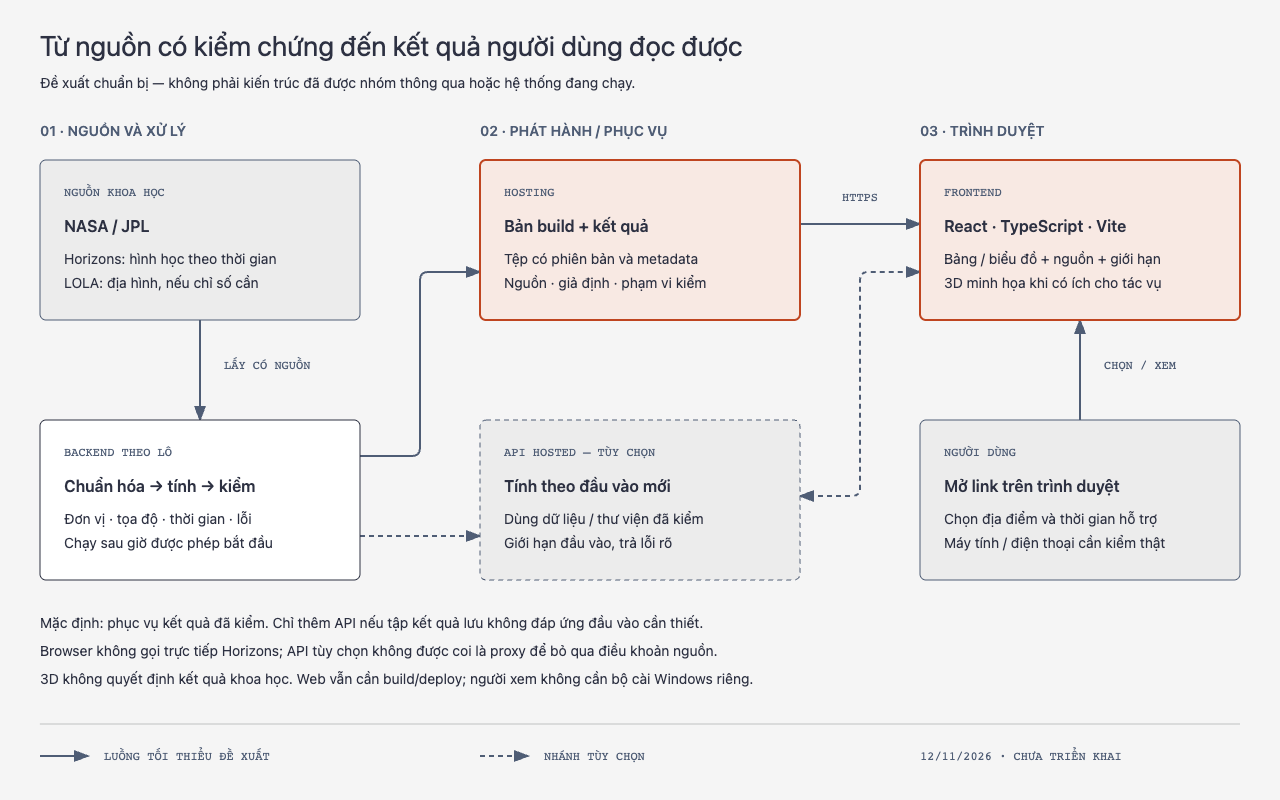
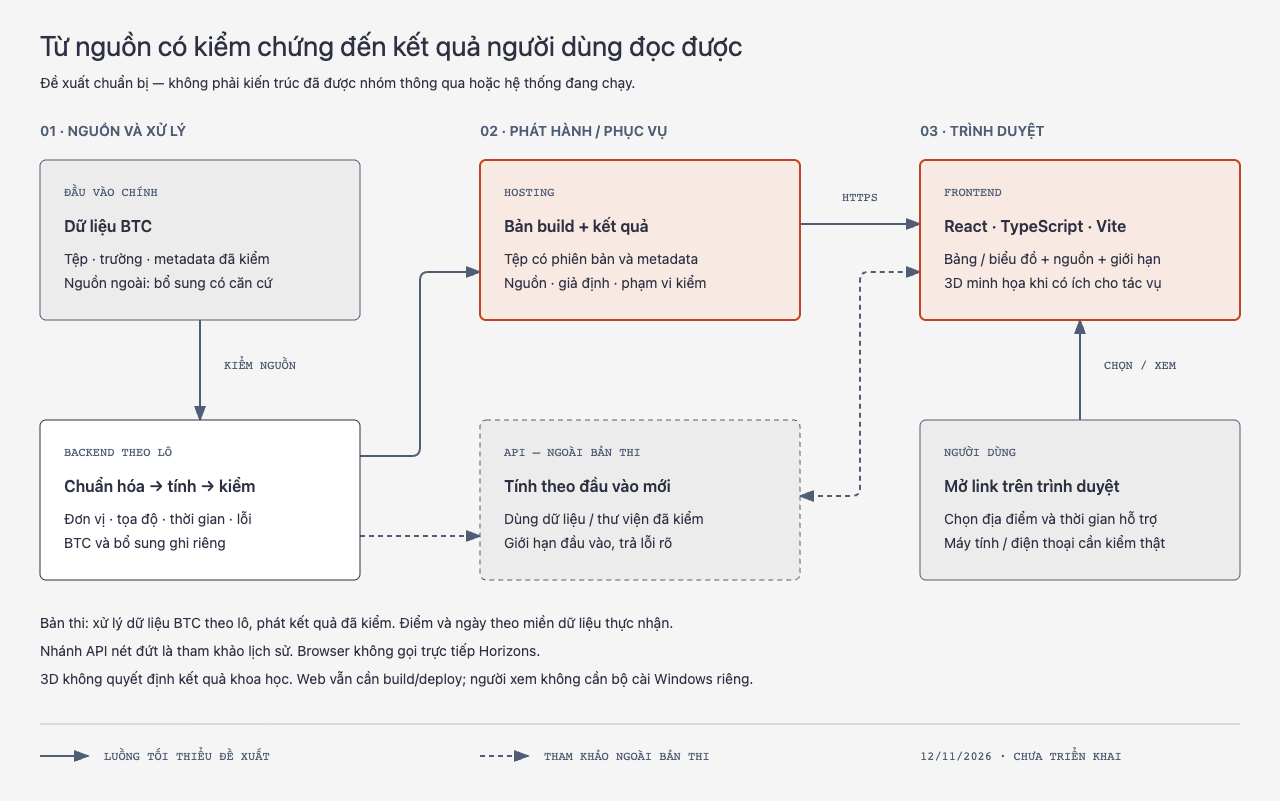
Make organizer data primary and select scenarios after inspection

diff --git a/docs/architecture-proposal/architecture.html b/docs/architecture-proposal/architecture.html
@@ -26,11 +26,11 @@
 <body>
 <main>
   <h1>Kiến trúc web app để nhóm trao đổi</h1>
-  <p><strong>Bản đề xuất · 12/11/2026 · Chưa triển khai.</strong> Giả định bản đầu chỉ hỗ trợ một số địa điểm và khoảng thời gian có kết quả đã kiểm. Nhóm chưa chốt chỉ số, miền dữ liệu hoặc nhánh API.</p>
+  <p><strong>Bản đề xuất · 12/11/2026 · Chưa triển khai.</strong> Dữ liệu BTC là chính; nguồn ngoài bổ sung có căn cứ. Điểm, ngày và cấu hình lấy từ bản kê đã kiểm sau khi nhận dữ liệu. Nhánh API là tham khảo lịch sử, ngoài bản thi hiện tại.</p>
   <div class="diagram-container" tabindex="0" role="region" aria-label="Sơ đồ kiến trúc, có thể cuộn ngang trên màn hình nhỏ">
     <svg viewBox="0 0 1280 800" xmlns="http://www.w3.org/2000/svg" role="img" aria-labelledby="architecture-title architecture-desc">
       <title id="architecture-title">Kiến trúc web app đề xuất</title>
-      <desc id="architecture-desc">Nguồn khoa học được xử lý và kiểm theo lô rồi phát hành lên hosting cho frontend trình duyệt; API theo yêu cầu là nhánh tùy chọn.</desc>
+      <desc id="architecture-desc">Dữ liệu BTC là đầu vào chính, nguồn ngoài bổ sung khi cần; xử lý và kiểm theo lô rồi phát hành lên hosting cho frontend. Điểm và ngày theo bản kê đã kiểm; nhánh API nằm ngoài bản thi hiện tại.</desc>
       <defs>
         <marker id="arch-arrow" markerWidth="8" markerHeight="6" refX="7" refY="3" orient="auto"><polygon points="0 0,8 3,0 6" fill="#4f5d75"/></marker>
         <marker id="arch-start" markerWidth="8" markerHeight="6" refX="1" refY="3" orient="auto"><polygon points="8 0,0 3,8 6" fill="#4f5d75"/></marker>
@@ -51,23 +51,23 @@
       <path d="M800 496 H852 Q860 496 860 488 V280 Q860 272 868 272 H920" class="arrow optional" marker-start="url(#arch-start)"/>
 
       <rect x="216" y="352" width="120" height="24" fill="#f5f5f5"/>
-      <text x="224" y="369" class="tag">LẤY CÓ NGUỒN</text>
+      <text x="224" y="369" class="tag">KIỂM NGUỒN</text>
       <rect x="804" y="184" width="112" height="24" fill="#f5f5f5"/>
       <text x="860" y="201" text-anchor="middle" class="tag">HTTPS</text>
       <rect x="1096" y="352" width="124" height="24" fill="#f5f5f5"/>
       <text x="1104" y="369" class="tag">CHỌN / XEM</text>
 
       <rect x="40" y="160" width="320" height="160" rx="6" fill="#ececec" stroke="#4f5d75"/>
-      <text x="64" y="196" class="tag">NGUỒN KHOA HỌC</text>
-      <text x="64" y="232" class="name">NASA / JPL</text>
-      <text x="64" y="264" class="detail">Horizons: hình học theo thời gian</text>
-      <text x="64" y="288" class="detail">LOLA: địa hình, nếu chỉ số cần</text>
+      <text x="64" y="196" class="tag">ĐẦU VÀO CHÍNH</text>
+      <text x="64" y="232" class="name">Dữ liệu BTC</text>
+      <text x="64" y="264" class="detail">Tệp · trường · metadata đã kiểm</text>
+      <text x="64" y="288" class="detail">Nguồn ngoài: bổ sung có căn cứ</text>
 
       <rect x="40" y="420" width="320" height="160" rx="6" fill="#ffffff" stroke="#2d3142"/>
       <text x="64" y="456" class="tag">BACKEND THEO LÔ</text>
       <text x="64" y="492" class="name">Chuẩn hóa → tính → kiểm</text>
       <text x="64" y="524" class="detail">Đơn vị · tọa độ · thời gian · lỗi</text>
-      <text x="64" y="548" class="detail">Chạy sau giờ được phép bắt đầu</text>
+      <text x="64" y="548" class="detail">BTC và bổ sung ghi riêng</text>
 
       <rect x="480" y="160" width="320" height="160" rx="6" fill="#f8e9e3" stroke="#bf4520" stroke-width="2"/>
       <text x="504" y="196" class="tag">HOSTING</text>
@@ -76,7 +76,7 @@
       <text x="504" y="288" class="detail">Nguồn · giả định · phạm vi kiểm</text>
 
       <rect x="480" y="420" width="320" height="160" rx="6" fill="#ececec" stroke="#4f5d75" stroke-dasharray="5 4"/>
-      <text x="504" y="456" class="tag">API HOSTED — TÙY CHỌN</text>
+      <text x="504" y="456" class="tag">API — NGOÀI BẢN THI</text>
       <text x="504" y="492" class="name">Tính theo đầu vào mới</text>
       <text x="504" y="524" class="detail">Dùng dữ liệu / thư viện đã kiểm</text>
       <text x="504" y="548" class="detail">Giới hạn đầu vào, trả lỗi rõ</text>
@@ -93,20 +93,20 @@
       <text x="944" y="524" class="detail">Chọn địa điểm và thời gian hỗ trợ</text>
       <text x="944" y="548" class="detail">Máy tính / điện thoại cần kiểm thật</text>
 
-      <text x="40" y="628" class="detail">Mặc định: phục vụ kết quả đã kiểm. Chỉ thêm API nếu tập kết quả lưu không đáp ứng đầu vào cần thiết.</text>
-      <text x="40" y="656" class="detail">Browser không gọi trực tiếp Horizons; API tùy chọn không được coi là proxy để bỏ qua điều khoản nguồn.</text>
+      <text x="40" y="628" class="detail">Bản thi: xử lý dữ liệu BTC theo lô, phát kết quả đã kiểm. Điểm và ngày theo miền dữ liệu thực nhận.</text>
+      <text x="40" y="656" class="detail">Nhánh API nét đứt là tham khảo lịch sử. Browser không gọi trực tiếp Horizons.</text>
       <text x="40" y="684" class="detail">3D không quyết định kết quả khoa học. Web vẫn cần build/deploy; người xem không cần bộ cài Windows riêng.</text>
       <line x1="40" y1="724" x2="1240" y2="724" stroke="#bfc0c0"/>
       <line x1="40" y1="756" x2="88" y2="756" class="arrow"/>
       <text x="104" y="760" class="tag">LUỒNG TỐI THIỂU ĐỀ XUẤT</text>
       <line x1="480" y1="756" x2="528" y2="756" class="arrow optional"/>
-      <text x="544" y="760" class="tag">NHÁNH TÙY CHỌN</text>
+      <text x="544" y="760" class="tag">THAM KHẢO NGOÀI BẢN THI</text>
       <text x="920" y="760" class="tag">12/11/2026 · CHƯA TRIỂN KHAI</text>
     </svg>
   </div>
   <p><strong>Luồng người dùng:</strong> mở link → chọn tình huống hỗ trợ → tải kết quả đúng phiên bản → xem bảng/biểu đồ → mở nguồn và giới hạn. Khi thiếu dữ liệu hoặc lỗi mạng, báo rõ và cho thử lại; không biến dữ liệu thiếu thành 0.</p>
-  <p><a href="ARCHITECTURE_PROPOSAL.md">Đọc thuyết minh, cơ sở lý thuyết và bốn quyết định cần chốt</a>. Tài liệu kèm theo có liên kết nguồn JPL SSD API, Horizons và LOLA PGDA 78. Sơ đồ tự hiển thị mà không tải font hoặc tài nguyên mạng.</p>
-  <p>Giả định trình bày: sơ đồ tĩnh, nền sáng, font hệ thống sẵn có; không phải bộ nhận diện hoặc giao diện sản phẩm. Nội dung là đề xuất của Codex; chưa có thuật toán, dataset hay deployment được kiểm.</p>
+  <p><a href="ARCHITECTURE_PROPOSAL.md">Đọc thuyết minh, cơ sở lý thuyết và kế hoạch Moon Plan B</a>. Tài liệu kèm theo có liên kết nguồn JPL SSD API, Horizons và LOLA PGDA 78. Sơ đồ tự hiển thị mà không tải font hoặc tài nguyên mạng.</p>
+  <p>Giả định trình bày: sơ đồ tĩnh, nền sáng, font hệ thống sẵn có; không phải bộ nhận diện hoặc giao diện sản phẩm. Nội dung là đề xuất chuẩn bị; tin nhắn nhóm/mentor chưa gửi. Chưa có dataset BTC, mô hình hoặc deployment được kiểm.</p>
 </main>
 </body>
 </html>

diff --git a/docs/architecture-proposal/ARCHITECTURE_PROPOSAL.md b/docs/architecture-proposal/ARCHITECTURE_PROPOSAL.md
@@ -1,10 +1,10 @@
 # Kiến trúc web app — bản đề xuất để nhóm trao đổi
 
-**Bản cụ thể mới hơn ngày 12/11:** [Moon Plan B](../../KE_HOACH_NHOM.md) mục 2–6 ấn định hướng đề xuất: hai điểm, lịch gốc/hoãn/ngày tiếp theo, Python theo lô → JSON có phiên bản → React/Vite trên hosting tĩnh. Nhánh API nét đứt trong sơ đồ dưới không thuộc bản giao này. Mô hình/thuật toán đã được mô tả trong kế hoạch để nhóm duyệt; chưa được triển khai/kiểm định. Nội dung dưới giữ vai trò sơ đồ nền và lịch sử thảo luận.
+**Bản sửa theo dữ liệu ngày 12/11:** [Moon Plan B](../../KE_HOACH_NHOM.md) mục 2–6 dùng bộ BTC làm nguồn chính, nguồn ngoài bổ sung có căn cứ; Python theo lô → JSON có phiên bản → React/Vite tĩnh. Địa điểm/ngày/cấu hình được chọn theo metadata và miền phủ thực nhận, không khóa trước. Mục tiêu là so lịch gốc/hoãn/ngày tiếp theo; nhánh API nét đứt không thuộc bản giao hiện tại. Mô hình tham chiếu có điều kiện dữ liệu, chưa được triển khai/kiểm định. Các đoạn thảo luận cũ dưới đây giữ vai trò lịch sử, kế hoạch mới là hướng thực hiện.
 
 Ngày 12/11/2026, giờ Hà Nội. **Đề xuất chuẩn bị, chưa được cả nhóm chốt và chưa triển khai.**
 
-**Phạm vi trả lời mentor:** đã có đề xuất nền tảng, sơ đồ thành phần, tương tác và luồng dữ liệu. Mục 4 dẫn bản giải thích lý thuyết, ví dụ giả định và kế hoạch kiểm chứng có nguồn. Đây là đề xuất để trao đổi; mô hình toán, thuật toán và kết quả kiểm định chưa có.
+**Phạm vi trao đổi mentor:** đã có sơ đồ thành phần, tương tác, luồng dữ liệu và mục 4 giải thích lý thuyết. Các tin nhắn dự thảo trong chat chia sẻ chưa gửi theo xác nhận của Sơn; không ghi nhận mentor/nhóm đã duyệt. Kế hoạch hiện tại mô tả mô hình tham chiếu có điều kiện, chưa có kết quả kiểm định.
 
 ![Sơ đồ kiến trúc đề xuất](architecture-preview.png)
 
@@ -18,26 +18,27 @@ Tách hai việc: **backend xử lý khoa học theo lô** tạo kết quả có
 
 ## 2. Sơ đồ thành phần
 
-Mở [sơ đồ trực quan](architecture.html). Đường liền là luồng tối thiểu đề xuất; đường đứt là nhánh API chỉ thêm khi có nhu cầu. Các mũi tên chính mô tả đường dữ liệu/kết quả; thao tác người dùng được giải thích ở mục 3.
+Mở [sơ đồ trực quan](architecture.html). Đường liền là luồng tối thiểu đề xuất; đường đứt là nhánh API tham khảo lịch sử, ngoài bản thi Moon Plan B hiện tại. Các mũi tên chính mô tả đường dữ liệu/kết quả; thao tác người dùng được giải thích ở mục 3.
 
 ```mermaid
 flowchart LR
-    S["Nguồn NASA/JPL<br/>ephemerides; địa hình nếu cần"] --> P["Backend xử lý theo lô<br/>chuẩn hóa → tính → kiểm"]
+    S["Dữ liệu BTC là chính<br/>kiểm metadata và miền phủ"] --> P["Backend xử lý theo lô<br/>chuẩn hóa → tính → kiểm"]
+    X["Nguồn ngoài bổ sung<br/>có lý do và kiểm tương thích"] --> P
     P --> H["Hosting<br/>frontend + kết quả có phiên bản"]
     H --> F["Frontend trong trình duyệt<br/>React · TypeScript · Vite"]
     U["Người dùng<br/>máy tính / điện thoại"] --> F
-    P -. "bản dữ liệu đã kiểm" .-> A["API hosted — tùy chọn<br/>chỉ khi cần tính đầu vào mới"]
+    P -. "bản dữ liệu đã kiểm" .-> A["API — ngoài bản thi<br/>tham khảo cho đầu vào mới"]
     F -. "đầu vào" .-> A
     A -. "kết quả + metadata hoặc lỗi" .-> F
 ```
 
 | Thành phần | Trách nhiệm và đầu ra |
 | --- | --- |
-| Nguồn | Ephemerides từ Horizons; địa hình LOLA nếu chỉ số cần và vùng có dữ liệu phù hợp. Giữ URL, phiên bản, request/header và bản gốc. Không dùng texture 3D làm dữ liệu độ cao. |
+| Nguồn | Bộ BTC là chính, có tệp/trường tham gia xử lý hoặc xác định đầu vào. Nguồn ngoài như Horizons/LOLA chỉ bổ sung khoảng thiếu có lý do và kiểm tương thích. Giữ URL, phiên bản, metadata và hash; chưa khóa địa điểm/ngày. |
 | Backend xử lý theo lô | Lấy tập nhỏ theo điều khoản nguồn; thống nhất tọa độ, thời gian, đơn vị; thực hiện phép tính đã chọn; kiểm mẫu và dữ liệu thiếu. Xuất kết quả + metadata + báo cáo kiểm. Chỉ thực hiện sau giờ được phép bắt đầu. |
 | Hosting | Phục vụ bản build, kết quả và tài nguyên có quyền sử dụng qua HTTPS; phiên bản frontend và dữ liệu phải tương thích. Cloudflare là ứng viên từ HOSTING_PLAN, chưa chốt nhà cung cấp/gói hoặc deploy. Mac không phải máy chủ public. |
 | Frontend | Cho chọn trong miền được hỗ trợ; tải đúng phiên bản; hiển thị bảng/biểu đồ, nguồn và giới hạn. 3D là lớp minh họa tùy tác vụ; vẫn đọc được kết quả khi 3D lỗi. |
-| API hosted, có điều kiện | Chỉ thêm khi cần xử lý đầu vào chưa có kết quả lưu. Kiểm đầu vào và giới hạn khối lượng; dùng dữ liệu/thư viện đã kiểm; trả kết quả cùng metadata hoặc lỗi rõ. Không phải proxy mặc định tới Horizons. Stack backend do bên tích hợp cùng nhóm chọn. |
+| API hosted, ngoài bản thi hiện tại | Chỉ thêm khi cần xử lý đầu vào chưa có kết quả lưu. Kiểm đầu vào và giới hạn khối lượng; dùng dữ liệu/thư viện đã kiểm; trả kết quả cùng metadata hoặc lỗi rõ. Không phải proxy mặc định tới Horizons. Stack backend do bên tích hợp cùng nhóm chọn. |
 
 JPL hiện yêu cầu một request mỗi lần, tái sử dụng kết quả khi phù hợp, backoff, User-Agent hợp lệ và kiểm phiên bản; chính sách không cho nhúng API vào website. **Không vẽ browser gọi trực tiếp Horizons, không coi thêm proxy là đã giải quyết điều khoản.** Nhánh API của nhóm chỉ dùng nguồn đã xác minh được phép sử dụng theo cách đó. [JPL SSD API policy, đọc 12/11](https://ssd-api.jpl.nasa.gov/doc/index.php).
 

diff --git a/HANDOFF.md b/HANDOFF.md
@@ -1,13 +1,13 @@
 # Current handoff
 
 Updated: 12 November 2026, Asia/Ho_Chi_Minh.
-Active editor: none; Moon Plan B planning reviewed, ownership released. Delivery verification underway.
+Active editor: none; BTC-primary plan and exports reviewed, ownership released. Delivery verification underway.
 
 ## Read first
 
 README → COMPETITION_RUNBOOK → FRONTEND_HANDOFF → DATA_PREPARATION. PREPARATION §11 and PREPARATION_COVERAGE retain dated decisions and chat checkpoints. Mac tools/evidence do not transfer through Git.
 
-Six registered members; Lunar Landing Site Navigator confirmed. The user requested one detailed, decisive plan for team approval. [Moon Plan B](KE_HOACH_NHOM.md) is now the concrete recommendation: two sourced reference points, 72-hour comparisons, a 30-day/15-minute batch, finite 3/6/12-hour lesson criteria and future-date selection. This records a recommendation, not team adoption. No Lunar submission code/UI/assets/processed dataset exists here.
+Six registered members; Lunar confirmed. Moon Plan B remains the concrete plan for approval. The user now requires BTC data as primary input and outside data only as justified supplements; do not fix sites, dates, cadence or height before inspecting the actual dataset. Trang/Chung record the validated domain/configuration; frontend reads that manifest. No BTC dataset contents or submission code/science results are available.
 
 ## Frontend and tools
 
@@ -31,8 +31,8 @@ Organizer email received Nov11 19:38 Hanoi was fully read Nov12: matching six me
 
 ## Architecture, sources and delivery
 
-[Architecture](docs/architecture-proposal/ARCHITECTURE_PROPOSAL.md) and [theory](docs/architecture-proposal/THEORY_PRIMER.md) provide background; the new plan specifies the proposed model/algorithm, interface, owners, gates and demo. Two independent reviewers checked content. Science/app validation remains event work. [Resource review](docs/resource-review-2026-11-12.md) retains terrain/license gaps; terrain is outside this plan's release scope.
+[Architecture](docs/architecture-proposal/ARCHITECTURE_PROPOSAL.md), HTML/preview and [theory](docs/architecture-proposal/THEORY_PRIMER.md) now align with BTC-first input. The ideal-horizon model applies only to compatible quantities; no silent external-only fallback. The shared architecture chat and current user message confirm mentor/group drafts remain unsent, with no approval inferred.
 
-Base release: 5e6076e65ac6e3722bcb67db9ebf8114e25ee8f9; security chat completed sync and cloud reported 29 matching files. This task changes preparation Markdown and regenerates the human plan Word/PDF. Final commit/readbacks: Drive manifest and sibling moon-plan-b-final-2026-11-12/. Preserve .DS_Store, security work, sharing and cloud scratch; no group message sent.
+Last verified GitHub/cloud/Drive release: 32cc63b6822cb0cad504d1dfdabdc2f72f4df050, 29 sources, six Drive downloads, scratch preserved. Current task revises source priorities and regenerates Word/PDF plus the architecture preview. Final commit/readbacks: Drive manifest and sibling moon-plan-b-btc-data-2026-11-12/. Preserve .DS_Store, security work, sharing and cloud scratch.
 
-Next action under two minutes: read the role/output row in plan §7 and record acceptance or one concrete adjustment. Keep implementation before Nov14 00:00 out of scope.
+Next action under two minutes: read plan §3 for the data-priority and dataset-inspection rule, then use §7 for role approval. No implementation before Nov14 00:00.

diff --git a/PREPARATION_COVERAGE.md b/PREPARATION_COVERAGE.md
@@ -1,5 +1,16 @@
 # Phạm vi đồng bộ và kiểm truy cập
 
+## Sửa kế hoạch theo dữ liệu BTC — 12 November 2026
+
+Yêu cầu tiếp theo của Sơn trong chat 01a1cf43-a87a-7a91-b926-bc62cf39b3ec: sửa kế hoạch, lấy dữ liệu BTC làm chính, nguồn ngoài bổ sung, chưa có dữ liệu thì không khóa địa điểm/ngày; xuất lại Word/PDF và đồng bộ như cũ. Quy tắc này là chỉ dẫn lập kế hoạch của người dùng, không gán thành điều khoản BTC chưa được xác minh. Thể lệ địa phương được đọc lại đầy đủ qua Drive ngay trước yêu cầu sửa: IV.4 yêu cầu NASA/đối tác; Phụ lục 2 cho nguồn ngoài có điều kiện. Chưa có nội dung dataset BTC để kiểm.
+
+Inventory 15 chat gần đây: chỉ chat hiện tại active ở checkout. Đọc lại lượt gần nhất của Vẽ kiến trúc web app (01a1cf3a-4c22-7da3-a8a4-615ff25b35d2) và Auto-use project tools (01a1ce76-3587-7cd0-901d-37c5f2797a89), không có quyết định mới so với checkpoint trước. Reviewer mở được chat chia sẻ do Sơn cung cấp trong Chrome (URL giữ ngoài repo) và đọc các tin nhắn hiển thị: cùng chat kiến trúc, bản nháp mentor/nhóm chưa gửi; người dùng xác nhận lại tại chat này. Không mở tool logs thu gọn hoặc rà toàn bộ archived/Zalo. Không gửi tin nhóm/mentor.
+
+Kế hoạch sửa xuyên suốt luồng sử dụng, phiếu kiểm dữ liệu, thuật toán có điều kiện đại lượng, schema/bản kê, lịch nhận dữ liệu, nghiệm thu, fallback và demo. Bỏ mặc định hai tọa độ/tháng khảo sát, số dòng/lưới cố định; nguồn bổ sung phải có lý do và kiểm tương thích. Không lấy nội suy làm độ chính xác mới hoặc dùng dữ liệu ngoài thay bộ chính mà vẫn nhận đã đạt. HTML/PNG sơ đồ, owning notes và AI context được đồng bộ về cùng nguyên tắc. Vai trò giữ nguyên đề xuất; không đổi Sheet nên không đọc lại Sheet trong lượt này.
+
+Base 32cc63b đã được root xác minh đủ GitHub/cloud/Drive trong lượt trước. Bản xuất mới và bằng chứng review/render/readback thuộc sibling moon-plan-b-btc-data-2026-11-12/. Quy trình Documents và browser render được tái dùng; các kiểm và vận chuyển cuối ghi ở biên nhận ngoài repo cùng manifest Drive, tránh vòng lặp commit. Tại checkpoint này công việc xuất/kiểm/sync đang thực hiện; không coi là hoàn tất chỉ từ việc lưu Markdown.
+
+
 ## Kế hoạch Moon Plan B để nhóm duyệt — 12 November 2026
 
 Sơn yêu cầu một kế hoạch chi tiết theo hướng tốt nhất để nhóm chốt, không một danh sách câu hỏi/chờ đề xuất. KE_HOACH_NHOM đã được viết lại thành một phương án cụ thể: hai điểm có nguồn, miền thời gian/tiêu chí hữu hạn, thuật toán tham chiếu, kiến trúc, vai trò, lịch, nghiệm thu và demo. Các vai trò là đề xuất của bản mới, không nâng thành việc từng người đã nhận. Sheet hai tab đọc lại, modified 2026-11-11T15:11:45.403Z; không chỉnh Sheet.

diff --git a/BOI_CANH_AI.md b/BOI_CANH_AI.md
@@ -14,7 +14,7 @@ Cập nhật ngày **12/11/2026**, bộ chuẩn bị **PREP-2026-11-12**, giờ 
 
 **Chưa chốt:** điểm hẹn/phòng làm việc cụ thể của nhóm, giờ tập trung và ngoại lệ tham gia; địa điểm BTC công bố không tự xác nhận chỗ được cấp cho nhóm; việc nhóm duyệt phương án sản phẩm/hợp đồng dữ liệu ở kế hoạch mới; việc từng người nhận nhiệm vụ và quyền nộp thực tế; việc từng thành viên mở được workspace và chấp nhận lời mời GitHub; thủ tục nộp và hạn địa phương mới nhất. Không tự gán Sơn làm người điều phối hoặc suy khả năng từ tuổi/lớp học.
 
-**Phương án cụ thể ngày 12/11 theo yêu cầu của Sơn:** [Moon Plan B](https://github.com/justsomenewbie/space-apps-2026-preparation/blob/main/KE_HOACH_NHOM.md) là bản để nhóm duyệt một hướng duy nhất: so lịch gốc/hoãn/ngày tiếp theo tại hai điểm tham chiếu Odysseus và Athena; cửa sổ 72 giờ; batch 14/11–14/12/2026 UTC, bước 15 phút; tiêu chí bài tập chọn 3/6/12 giờ. React + TypeScript + Vite đọc JSON đã kiểm, Python xử lý theo lô, hosting tĩnh; không thêm API thường trực. Kế hoạch quy định nguồn/tọa độ, cao độ mô hình 0 km, thuật toán, kiểm sát ngưỡng/thiếu dữ liệu, vai trò, lịch và phương án thu gọn. Đây là khuyến nghị cụ thể để nhóm phê duyệt, không phải bằng chứng nhóm đã thông qua hoặc đã có dữ liệu/code.
+**Phương án Moon Plan B sửa theo chỉ dẫn Sơn ngày 12/11:** [kế hoạch](https://github.com/justsomenewbie/space-apps-2026-preparation/blob/main/KE_HOACH_NHOM.md) giữ luồng lịch gốc/hoãn/ngày tiếp theo; dữ liệu BTC là đầu vào chính, nguồn ngoài chỉ bổ sung có lý do và kiểm tương thích. Chưa có nội dung bộ BTC để khóa địa điểm/ngày/cao độ/độ phân giải. Trang + Chung kiểm bộ thực nhận, ghi cấu hình hữu hạn vào bản kê rồi frontend đọc đúng cấu hình đó. Mục tiêu so hai điểm và nhiều ngày trong miền hợp lệ; Python theo lô → JSON → React/Vite tĩnh. Không âm thầm thay bộ BTC bằng toàn bộ nguồn ngoài khi thiếu dữ liệu. Đây là chỉ dẫn lập kế hoạch, không phải bằng chứng một dataset cụ thể đã phát hành hay nhóm đã duyệt.
 
 **Các phiên bản ý tưởng cũ:** Moon Plan B hai điểm × năm ngày và Lunar Workday là lịch sử, không triển khai song song với đặc tả mới. Khác biệt sản phẩm không được khẳng định là mới: SYNEXIS cũng đã công bố so kịch bản. Đầu ra chuẩn là cửa sổ hình học tham chiếu, không phải đủ điện/liên lạc bảo đảm/an toàn đáp. Ngày/giờ và ngưỡng trong bài học là thiết kế, không phải lịch hoặc tiêu chuẩn NASA.
 

diff --git a/DATA_PREPARATION.md b/DATA_PREPARATION.md
@@ -1,6 +1,6 @@
 # Chuẩn bị dữ liệu và nguồn tái sử dụng — Lunar
 
-**Đặc tả đề xuất Moon Plan B ngày 12/11:** [kế hoạch mục 3–4](KE_HOACH_NHOM.md) chọn tọa độ Odysseus từ NASA LRO và Athena từ NASA PDS, cao độ mô hình 0 km, Horizons Sun/Earth center, 14/11–14/12/2026 UTC, lưới 15 phút, cửa sổ 72 giờ và tiêu chí bài tập 3/6/12 giờ. Đây là lựa chọn cụ thể để nhóm duyệt, thay các trường chưa chọn trong phiếu đọc bên dưới; chưa tạo request chạy, dataset hoặc kết quả khoa học. Terrain/PGDA không nằm trên đường giao bản thi này. Nguồn mới: [PDS Athena 1.0](https://pds.nasa.gov/ds-view/pds/viewContext.jsp?identifier=urn%3Anasa%3Apds%3Acontext%3Ainstrument_host%3Aspacecraft.clps_to_prime1_athena&version=1.0), đã đọc 12/11.
+**Đặc tả Moon Plan B sửa ngày 12/11:** [kế hoạch mục 3–4](KE_HOACH_NHOM.md) lấy dữ liệu BTC làm đầu vào chính theo chỉ dẫn Sơn; nguồn NASA/JPL/PDS dưới đây là ứng viên bổ sung, không thay thế mặc định. Chưa có nội dung bộ BTC; không khóa điểm, ngày, cao độ, loại đại lượng hoặc độ phân giải. Trang + Chung kiểm cấu trúc, metadata, miền phủ, quyền dùng và vai trò nguồn; ghi danh sách lựa chọn hữu hạn vào bản kê, rồi mới xử lý sau giờ cho phép. Quy tắc góc cao > 0° chỉ áp dụng cho đại lượng tương thích. Không tự xây terrain trong bản tối thiểu; nếu nguồn BTC đã xét địa hình thì giữ đúng định nghĩa của nguồn. [PDS Athena 1.0](https://pds.nasa.gov/ds-view/pds/viewContext.jsp?identifier=urn%3Anasa%3Apds%3Acontext%3Ainstrument_host%3Aspacecraft.clps_to_prime1_athena&version=1.0) là ví dụ vị trí đã đọc, không phải điểm demo được chọn.
 
 Cập nhật 12/11/2026, giờ Hà Nội. **Đã kiểm luật 2026 và chọn nguồn/phần tái sử dụng ở mục 3. Chưa tạo dataset hay mã bài nộp.** Đây là đề xuất kỹ thuật theo yêu cầu của Sơn; chưa thay quyết định stack/phạm vi của nhóm.
 

diff --git a/FRONTEND_HANDOFF.md b/FRONTEND_HANDOFF.md
@@ -1,6 +1,6 @@
 # Frontend — phiếu chốt để bắt đầu đúng giờ
 
-**Phương án cụ thể ngày 12/11:** [Moon Plan B](KE_HOACH_NHOM.md), mục 2/5/6/9, chọn React + TypeScript + Vite, dữ liệu JSON tính theo lô, hai điểm tham chiếu, cửa sổ 72 giờ, tiêu chí chọn 3/6/12 giờ và bảng/biểu đồ có fallback khi 3D lỗi. Python xử lý dữ liệu trước khi phát hành; không gọi JPL trực tiếp từ trình duyệt và không cần API thường trực cho tập lựa chọn này. Bản kế hoạch điền lựa chọn đề xuất thay các ô để ngỏ bên dưới; không coi là nhóm đã phê duyệt hoặc đã có schema/code/kiểm app.
+**Phương án sửa theo dữ liệu ngày 12/11:** [Moon Plan B](KE_HOACH_NHOM.md), mục 2–6/9, dùng React + TypeScript + Vite đọc JSON xử lý theo lô. Bộ BTC là nguồn chính; nguồn ngoài chỉ bổ sung sau kiểm tương thích. UI lấy điểm, ngày, thời lượng và tập H từ bản kê đã kiểm, không hard-code Odysseus/Athena hoặc tháng khảo sát. Mục tiêu so hai điểm và nhiều ngày trong miền bộ dữ liệu hỗ trợ; nếu thiếu thì ghi đúng phạm vi. Python xử lý trước phát hành, không gọi JPL trực tiếp từ browser. Chưa có nội dung bộ BTC, schema/code hoặc kiểm app; phiếu mục 3 của kế hoạch quyết định cấu hình khi nhận dữ liệu.
 
 Cập nhật 11/11/2026. Đây là tài liệu chuẩn bị và các ô cần nhóm xác nhận, không phải thiết kế/UI/code cho bài nộp. Không tự chuyển ô trống thành quyết định đã thống nhất. Sheet lần đọc gần nhất ghi Sơn + Thảo frontend, Chung integration/backend; việc nhận đầu ra cụ thể của các thành viên khác vẫn cần xác nhận. Người dùng làm rõ trong chat ngày 11/11 rằng Sơn phụ trách chuẩn bị/chọn frontend; không chờ Chung chọn framework thay Sơn. Hợp đồng dữ liệu và cách ghép vẫn cần phối hợp với người tích hợp.
 

diff --git a/COMPETITION_RUNBOOK.md b/COMPETITION_RUNBOOK.md
@@ -4,7 +4,7 @@ Updated 11 November 2026 (live-source reconciliation), Hanoi time. Team coordina
 
 ## Current source update — 11 November
 
-**Concrete plan and organizer email — 12 November:** [KE_HOACH_NHOM](KE_HOACH_NHOM.md) now supplies the user's requested single recommendation, Moon Plan B, with source locations, time domain, model, architecture, roles and timed acceptance gates. Use that plan for proposed implementation choices; older open-ended scope suggestions below are dated context, not a competing specification. Team approval remains separate from authoring the recommendation. The plan does not authorize early implementation.
+**Concrete plan and data correction — 12 November:** [KE_HOACH_NHOM](KE_HOACH_NHOM.md) retains Moon Plan B, roles, architecture and timed gates. The user now directs BTC-provided data as the primary input, with outside sources only as justified supplements; locations, dates, cadence and model configuration follow inspection of the actual dataset. No specific BTC dataset contents are known. The local rules IV.4 require NASA/partner data or scientific resources, not proof of an unknown organizer pack. This is a user planning requirement, not a newly verified competition clause. Group/mentor messages in the shared architecture chat remain unsent; no adoption is inferred. Preparation-only timing remains unchanged.
 
 An organizer email received November 11 at 19:38 Hanoi was read in full November 12 and matches all six members and Lunar. It confirms in-person participation, a received team code, 07:00 November 14 check-in at THCS Trưng Vương via the Lý Thường Kiệt gate, and limited parking. Private code/message details stay outside public sources. It links the same timeline already used and a venue map; no deadline change or pitch duration appears in its body. Older notes saying the code/email was not found are superseded; a room or overnight permission is still not established. The venue map and later Zalo notices were not inspected in this task.
 

diff --git a/docs/architecture-proposal/THEORY_PRIMER.md b/docs/architecture-proposal/THEORY_PRIMER.md
@@ -1,6 +1,6 @@
 # Cơ sở lý thuyết cho kiến trúc Lunar web app
 
-**Áp dụng cụ thể ngày 12/11:** [kế hoạch Moon Plan B](../../KE_HOACH_NHOM.md) mục 3–4 chọn mô hình chân trời tham chiếu và quy tắc xử lý để nhóm duyệt. Primer này giải thích kiến thức nền; các câu chưa chọn mô hình bên dưới mô tả phạm vi primer lúc soạn. Đặc tả bằng văn bản chưa phải kiểm định khoa học hoặc triển khai trước giờ thi.
+**Áp dụng theo bản sửa ngày 12/11:** [kế hoạch Moon Plan B](../../KE_HOACH_NHOM.md) mục 3–4 dùng dữ liệu BTC làm chính, nguồn ngoài bổ sung; địa điểm/ngày/cấu hình được chọn sau kiểm bộ thực nhận. Primer giải thích kiến thức nền của NASA/JPL, không gán frame, UTC, góc cao hoặc mô hình Horizons cho dữ liệu BTC chưa biết. Quy tắc chân trời tham chiếu chỉ dùng khi đại lượng tương thích. Đây là kế hoạch kiểm, chưa phải dataset đã xử lý hoặc mô hình đã xác thực.
 
 Ngày đọc nguồn: 12/11/2026, giờ Hà Nội. **Tài liệu học và thảo luận; chưa phải mô hình đã triển khai hoặc kiểm định.** Thời gian đọc dự kiến: 8 phút. Đọc cùng [sơ đồ kiến trúc](ARCHITECTURE_PROPOSAL.md) và [phiếu nguồn dữ liệu](../../DATA_PREPARATION.md).
 
